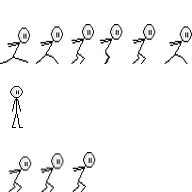
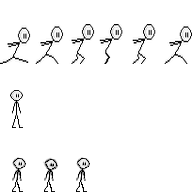
+ Champion animations (always facing right)

diff --git a/GREATServer/ServerGame.cs b/GREATServer/ServerGame.cs
@@ -27,6 +27,7 @@ using GREATLib;
 using GREATLib.Network;
 using GREATLib.Entities;
 using GREATLib.Entities.Champions;
+using GREATServer.Network;
 
 namespace GREATServer
 {
@@ -173,9 +174,8 @@ namespace GREATServer
 		void HandleActions()
 		{
 			foreach (ServerClient client in Clients.Values) {
-				client.Champion.Animation = ChampionAnimation.idle;
+				client.Champion.ResetAnimInfo();
 				if (client.ActionsPackage.Count > 0) {
-
 					foreach (PlayerAction action in client.ActionsPackage) {
 						HandleAction(client.Champion.ID, action);
 						client.LastAcknowledgedActionID = Math.Max(client.LastAcknowledgedActionID, action.ID);
@@ -184,7 +184,8 @@ namespace GREATServer
 					client.ActionsPackage.Clear();
 				}
 
-				Console.WriteLine(client.Champion.Animation);
+				client.Champion.Animation = client.Champion.GetAnim(1f, //TODO: replace with actual HP
+				                                                    Match.CurrentState.IsOnGround(client.Champion.ID));
 			}
 		}
 
@@ -206,7 +207,7 @@ namespace GREATServer
 
 				// Simulate from our previous snapshot to our current action to be up-to-date
 				if (state.Value.ContainsEntity(id)) {
-					IEntity player = state.Value.GetEntity(id);
+					ServerChampion player = (ServerChampion)state.Value.GetEntity(id);
 					float deltaT = (float)(time - state.Key);
 					if (deltaT > 0f) { // if we have something to simulate...
 						state.Value.ApplyPhysicsUpdate(id, deltaT);
@@ -291,19 +292,18 @@ namespace GREATServer
 			return position;
 		}
 
-		static void DoAction(MatchState match, IEntity champion, PlayerAction action)
+		static void DoAction(MatchState match, ServerChampion champion, PlayerAction action)
 		{
 			switch (action.Type) {
 				case PlayerActionType.MoveLeft:
-					champion.Animation = ChampionAnimation.run;
+					--champion.Movement;
 					match.Move(champion.ID, HorizontalDirection.Left);
 					break;
 					case PlayerActionType.MoveRight:
-					champion.Animation = ChampionAnimation.run;
+					++champion.Movement;
 					match.Move(champion.ID, HorizontalDirection.Right);
 					break;
 					case PlayerActionType.Jump:
-					champion.Animation = ChampionAnimation.jump;
 					match.Jump(champion.ID);
 					break;
 					default:
@@ -336,7 +336,7 @@ namespace GREATServer
 		{
 			ILogger.Log("New player added to the game.", LogPriority.High);
 
-			IEntity champion = CreateRandomChampion();
+			ServerChampion champion = CreateRandomChampion();
 
 			// Send to the client that asked to join, along with the info of the current players
 			List<IEntity> remoteChampions = new List<IEntity>();
@@ -402,10 +402,10 @@ namespace GREATServer
 		/// Creates a random champion at a random starting position (mainly used
 		/// for testing purposes).
 		/// </summary>
-		static IEntity CreateRandomChampion()
+		static ServerChampion CreateRandomChampion()
 		{
-			return new IEntity(IDGenerator.GenerateID(), 
-			                   new Vec2(Utilities.RandomFloat(Utilities.Random, 100f, 400f), 0f));
+			return new ServerChampion(IDGenerator.GenerateID(), 
+			                   new Vec2(Utilities.RandomFloat(Utilities.Random, 100f, 400f), 150f));
 		}
 
 		/// <summary>

diff --git a/GREATServer/Network/ServerChampion.cs b/GREATServer/Network/ServerChampion.cs
@@ -1,0 +1,88 @@
+//
+//  ServerClient.cs
+//
+//  Author:
+//       Jesse <jesse.emond@hotmail.com>
+//
+//  Copyright (c) 2013 Jesse
+//
+//  This program is free software: you can redistribute it and/or modify
+//  it under the terms of the GNU General Public License as published by
+//  the Free Software Foundation, either version 3 of the License, or
+//  (at your option) any later version.
+//
+//  This program is distributed in the hope that it will be useful,
+//  but WITHOUT ANY WARRANTY; without even the implied warranty of
+//  MERCHANTABILITY or FITNESS FOR A PARTICULAR PURPOSE.  See the
+//  GNU General Public License for more details.
+//
+//  You should have received a copy of the GNU General Public License
+//  along with this program.  If not, see <http://www.gnu.org/licenses/>.
+using System;
+using GREATLib.Entities;
+using GREATLib;
+using GREATLib.Entities.Champions;
+
+namespace GREATServer.Network
+{
+    public class ServerChampion : IEntity
+    {
+		public bool CastSpell1 { get; set; }
+		public bool CastSpell2 { get; set; }
+		public bool CastSpell3 { get; set; }
+		public bool CastSpell4 { get; set; }
+		public int Movement { get; set; }
+
+		public ServerChampion(uint id, Vec2 pos)
+			: base(id, pos)
+        {
+			ResetAnimInfo();
+        }
+
+		public void ResetAnimInfo()
+		{
+			CastSpell1 = CastSpell2 = CastSpell3 = CastSpell4 = false;
+			Movement = 0;
+		}
+
+		public ChampionAnimation GetAnim(float health, bool onGround)
+		{
+			// Dead champion
+			if (health <= 0f) return ChampionAnimation.die;
+
+			// Casting spell
+			if (CastSpell1) return ChampionAnimation.spell1;
+			if (CastSpell2) return ChampionAnimation.spell2;
+			if (CastSpell3) return ChampionAnimation.spell3;
+			if (CastSpell4) return ChampionAnimation.spell4;
+
+			// Falling/jumping
+			if (!onGround) return ChampionAnimation.jump;
+
+			// Moving left/right
+			if (Movement != 0) return ChampionAnimation.run;
+
+			// Default to idle
+			return ChampionAnimation.idle;
+		}
+
+		public override object Clone()
+		{
+			ServerChampion s = new ServerChampion(ID, Position);
+			s.Clone(this);
+			return s;
+		}
+		public override void Clone(IEntity champ)
+		{
+			ServerChampion c = (ServerChampion)champ;
+
+			base.Clone(c);
+			CastSpell1 = c.CastSpell1;
+			CastSpell2 = c.CastSpell2;
+			CastSpell3 = c.CastSpell3;
+			CastSpell4 = c.CastSpell4;
+			Movement = c.Movement;
+		}
+    }
+}
+

diff --git a/GREATClient/GameContent/MainDrawableChampion.cs b/GREATClient/GameContent/MainDrawableChampion.cs
@@ -31,13 +31,14 @@ namespace GREATClient.GameContent
 {
     public sealed class MainDrawableChampion : DrawableChampion<MainClientChampion>
     {
-		const bool VIEW_DEBUG_RECTS = false;
+		public const bool VIEW_DEBUG_RECTS = false;
 		/// <summary>
 		/// TODO: class for debug info
 		/// </summary>
 		DrawableRectangle ChampionServerRect { get; set; }
 		DrawableRectangle ChampionSimulatedRect { get; set; }
 		DrawableRectangle ChampionNoCorrection { get; set; }
+		DrawableRectangle ChampionCorrectionUsed { get; set; }
 
 		public MainDrawableChampion(ChampionSpawnInfo spawnInfo, GameMatch match, ChampionsInfo champInfo)
 			: base(new MainClientChampion(spawnInfo, match), champInfo)
@@ -46,10 +47,13 @@ namespace GREATClient.GameContent
 
 		protected override void OnLoad(Microsoft.Xna.Framework.Content.ContentManager content, Microsoft.Xna.Framework.Graphics.GraphicsDevice gd)
 		{
-			Parent.AddChild(ChampionServerRect = new DrawableRectangle(new Rectangle(0, 0, 15, 30), Color.Green));
-			Parent.AddChild(ChampionSimulatedRect = new DrawableRectangle(new Rectangle(0, 0, 15, 30), Color.Red));
-			Parent.AddChild(ChampionNoCorrection = new DrawableRectangle(new Rectangle(0, 0, 15, 30), Color.Yellow));
-			ChampionNoCorrection.Visible = ChampionServerRect.Visible = ChampionSimulatedRect.Visible = VIEW_DEBUG_RECTS;
+			Rect rect = Champion.CreateCollisionRectangle();
+			Parent.AddChild(ChampionServerRect = new DrawableRectangle(rect, Color.Green));
+			Parent.AddChild(ChampionSimulatedRect = new DrawableRectangle(rect, Color.Red));
+			Parent.AddChild(ChampionNoCorrection = new DrawableRectangle(rect, Color.Yellow * 0.5f));
+			Parent.AddChild(ChampionCorrectionUsed = new DrawableRectangle(rect, Color.Blue * 0.8f));
+			ChampionNoCorrection.Visible = ChampionServerRect.Visible = 
+				ChampionSimulatedRect.Visible = ChampionCorrectionUsed.Visible = VIEW_DEBUG_RECTS;
 
 			base.OnLoad(content, gd);
 		}
@@ -61,6 +65,7 @@ namespace GREATClient.GameContent
 			ChampionServerRect.Position = GameLibHelper.ToVector2(Champion.ServerPosition);
 			ChampionSimulatedRect.Position = GameLibHelper.ToVector2(Champion.Position);
 			ChampionNoCorrection.Position = GameLibHelper.ToVector2(Champion.NoCorrPos);
+			ChampionCorrectionUsed.Position = GameLibHelper.ToVector2(Champion.ServerCorrectionUsed);
 		}
 
 		/// <summary>

diff --git a/GREATClient/GameContent/DrawableChampion.cs b/GREATClient/GameContent/DrawableChampion.cs
@@ -62,6 +62,7 @@ namespace GREATClient.GameContent
 		/// </summary>
 		/// <value>The champion sprite.</value>
 		DrawableChampionSprite ChampionSprite { get; set; }
+		DrawableRectangle ChampionRect { get ; set; }
 
         public DrawableChampion(ChampionT champion, ChampionsInfo championsInfo)
         {
@@ -75,6 +76,8 @@ namespace GREATClient.GameContent
 			base.OnLoad(content, gd);
 
 			AddChild(ChampionSprite);
+			AddChild(ChampionRect = new DrawableRectangle(Champion.CreateCollisionRectangle(), Color.White * 0.7f));
+			ChampionRect.Visible = MainDrawableChampion.VIEW_DEBUG_RECTS;
 		}
 		protected override void OnUpdate(Microsoft.Xna.Framework.GameTime dt)
 		{
@@ -86,6 +89,7 @@ namespace GREATClient.GameContent
 			var rect = Champion.CreateCollisionRectangle();
 			ChampionSprite.Position = GameLibHelper.ToVector2(
 				Champion.DrawnPosition + new Vec2(rect.Width / 2f, rect.Height));
+			ChampionRect.Position = GameLibHelper.ToVector2(Champion.DrawnPosition);
 		}
 
 		public override bool IsBehind(Vector2 position)

diff --git a/GREATClient/Network/MainClientChampion.cs b/GREATClient/Network/MainClientChampion.cs
@@ -76,6 +76,7 @@ namespace GREATClient.Network
 
 		IEntity NoCorrections { get; set; }
 		public Vec2 NoCorrPos { get { return NoCorrections.Position; } }
+		public Vec2 ServerCorrectionUsed { get; private set; }
 
 		public MainClientChampion(ChampionSpawnInfo spawnInfo, GameMatch match)
 			: base(spawnInfo)
@@ -83,6 +84,7 @@ namespace GREATClient.Network
 			Match = match;
 
 			ServerPosition = Position;
+			ServerCorrectionUsed = Position;
 
 			PackagedActions = new Queue<PlayerAction>();
 			RecentActions = new List<PlayerAction>();
@@ -174,7 +176,7 @@ namespace GREATClient.Network
 				return;
 			}
 
-			ServerPosition = corr.Position;
+			ServerCorrectionUsed = corr.Position;
 
 			// go back to our last acknowledged state (if any)
 			double time = corr.Time;

diff --git a/GREATServer/ServerClient.cs b/GREATServer/ServerClient.cs
@@ -24,6 +24,7 @@ using GREATLib;
 using GREATLib.Entities;
 using GREATLib.Network;
 using System.Collections.Generic;
+using GREATServer.Network;
 
 namespace GREATServer
 {
@@ -33,11 +34,11 @@ namespace GREATServer
     public class ServerClient
     {
 		public NetConnection Connection { get; private set; }
-		public IEntity Champion { get; private set; }
+		public ServerChampion Champion { get; private set; }
 		public List<PlayerAction> ActionsPackage { get; private set; }
 		public uint LastAcknowledgedActionID { get; set; }
 
-        public ServerClient(NetConnection conn, IEntity champion)
+		public ServerClient(NetConnection conn, ServerChampion champion)
         {
 			Connection = conn;
 			Champion = champion;

diff --git a/GREATLib/World/Tiles/TileMap.cs b/GREATLib/World/Tiles/TileMap.cs
@@ -60,6 +60,7 @@ namespace GREATLib.World.Tiles
 				CollisionType.Passable, CollisionType.Block);
 
 			List<List<int>> tiles = Utilities.MakeList(
+				Utilities.MakeList(1, 1, 1, 1, 1, 1, 1, 1, 1, 1, 1, 1, 1, 1, 1, 1, 1, 1, 1, 1, 1, 1, 1, 1),
 				Utilities.MakeList(1, 0, 0, 0, 0, 0, 0, 0, 0, 0, 0, 0, 0, 0, 0, 0, 0, 0, 0, 0, 0, 0, 0, 1),
 				Utilities.MakeList(1, 1, 0, 0, 0, 0, 0, 0, 0, 0, 0, 0, 0, 0, 0, 0, 0, 0, 0, 0, 0, 0, 0, 1),
 				Utilities.MakeList(1, 0, 1, 0, 0, 0, 0, 0, 0, 0, 0, 0, 0, 0, 0, 0, 0, 0, 0, 0, 0, 0, 0, 1),

diff --git a/GREATLib/Physics/PhysicsEngine.cs b/GREATLib/Physics/PhysicsEngine.cs
@@ -177,7 +177,7 @@ namespace GREATLib.Physics
 			             && entity.Velocity != null);
 
 			// We may only jump when we're on the ground
-			if (Collisions.HasCollisionBelow(entity)) {
+			if (IsOnGround(entity)) {
 				entity.Velocity.Y = -entity.JumpForce;
 			}
 		}
@@ -189,6 +189,11 @@ namespace GREATLib.Physics
 		{
 			entity.Velocity = Vec2.Zero;
 			entity.Direction = HorizontalDirection.None;
+		}
+
+		public bool IsOnGround(IEntity entity)
+		{
+			return Collisions.HasCollisionBelow(entity);
 		}
     }
 }

diff --git a/GREATLib/Physics/CollisionResolver.cs b/GREATLib/Physics/CollisionResolver.cs
@@ -54,12 +54,15 @@ namespace GREATLib.Physics
 			HandleCollisionGroup(entity, collisions);
 		}
 
+		const int JUMP_X_TOLERANCE = 4;
 		const int JUMP_Y_TOLERANCE = 2;
 		public bool HasCollisionBelow(IEntity entity)
 		{
 			Debug.Assert(entity != null);
 
 			Rect r = entity.CreateCollisionRectangle();
+			r.X -= JUMP_X_TOLERANCE / 2f;
+			r.Width += JUMP_X_TOLERANCE;
 			r.Y += JUMP_Y_TOLERANCE; // move it down a bit
 
 			var tiles = World.Map.GetTouchedTiles(r);

diff --git a/GREATLib/Entities/IEntity.cs b/GREATLib/Entities/IEntity.cs
@@ -102,7 +102,7 @@ namespace GREATLib.Entities
 		/// <summary>
 		/// Clone the specified entity to copy its values.
 		/// </summary>
-		public void Clone(IEntity e)
+		public virtual void Clone(IEntity e)
 		{
 			CollisionWidth = e.CollisionWidth;
             CollisionHeight = e.CollisionHeight;

diff --git a/GREATLib/Network/MatchState.cs b/GREATLib/Network/MatchState.cs
@@ -111,6 +111,13 @@ namespace GREATLib.Network
 			}
 		}
 
+		public bool IsOnGround(uint id)
+		{
+			Debug.Assert(Entities.ContainsKey(id));
+
+			return Entities.ContainsKey(id) ? Physics.IsOnGround(Entities[id]) : false;
+		}
+
 		/// <summary>
 		/// Clones the match state.
 		/// </summary>
